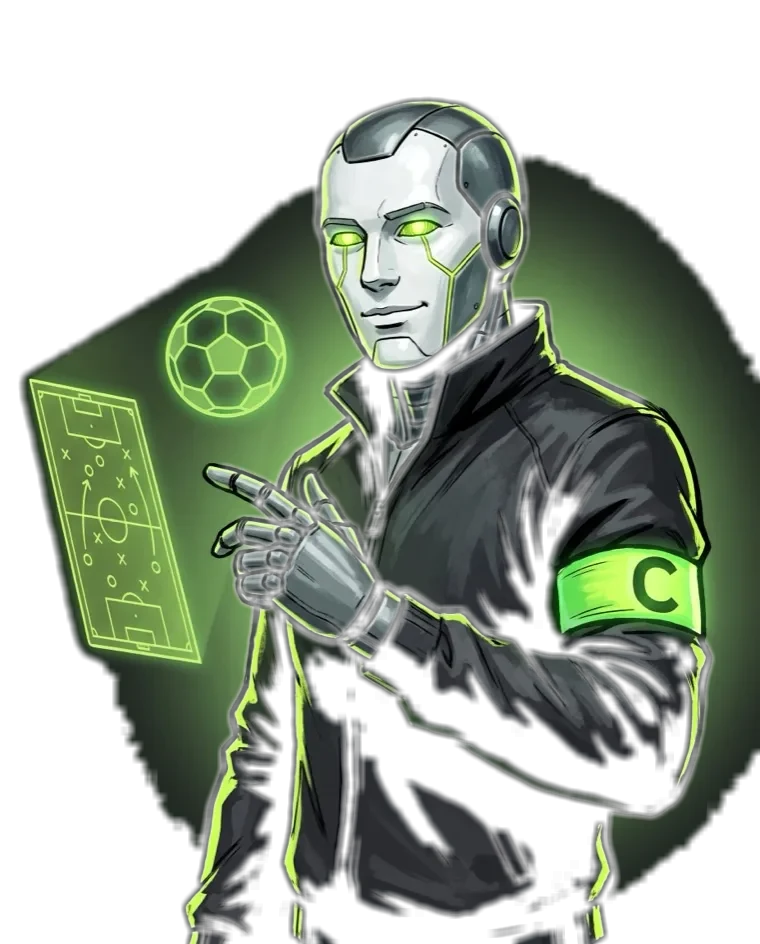
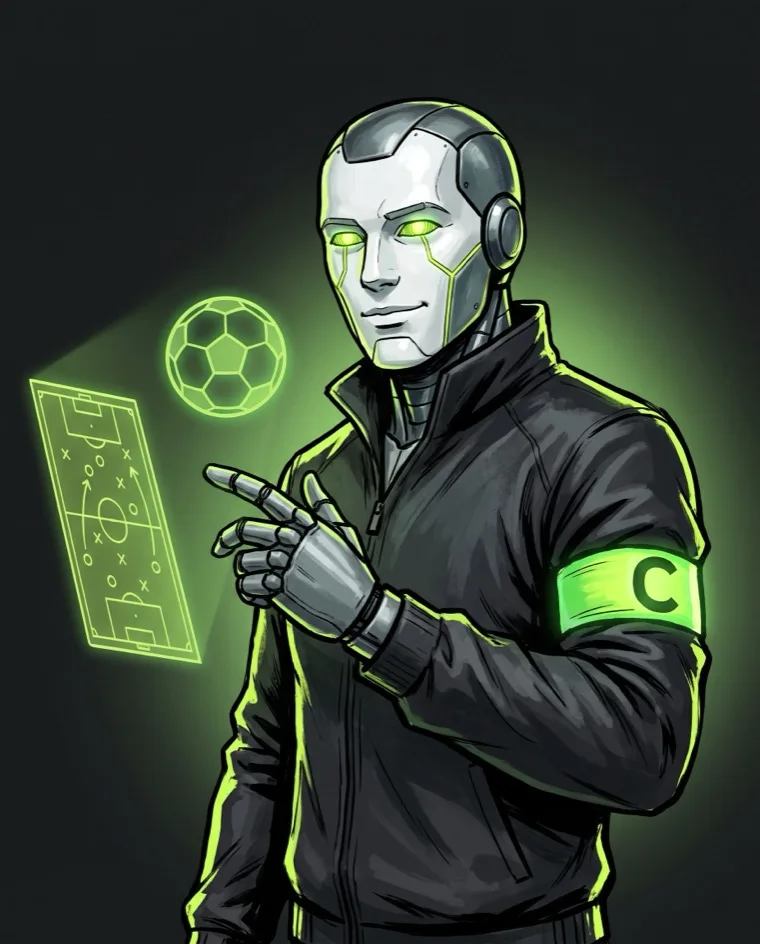
fix: sink the artwork's studio floor into the surface it sits on
Both illustrations are fully opaque and were painted on a flat near-black
floor, so on a tinted panel that floor reads as a rectangle behind the figure.
Keying it out of the assets was tried and reverted: the jacket is the same
black as the floor, colour cannot separate them, and a geometric silhouette
test left axis-aligned artefacts. The original assets are restored.

The surface is what changes instead. The art wrapper is filled with the
floor's own colour and now carries the mask itself rather than the image, so
the figure and the ground it was painted on dissolve together as one soft
field. The panel gradients meet that colour on the side the art sits on, which
is what makes the same artwork sit cleanly on the deck's flat black.

Also, the banner no longer stretches: the art column is 300px rather than 360,
which takes the desktop banner from about 470px tall to 397.

Claude-Session: https://claude.ai/code/session_01MmGnzvffgVCGJRVzZPhsMQ

diff --git a/index.html b/index.html
@@ -86,7 +86,7 @@ svg.i{width:1em;height:1em;flex:none;fill:none;stroke:currentColor;stroke-width:
 .site-nav button.on{color:var(--ink);border-bottom-color:var(--accent)}
 
 /* The play flow stays a single focused column; browse and scan screens open up. */
-body{--head-h:65px;--subnav-h:49px;--shell:620px}
+body{--head-h:65px;--subnav-h:49px;--shell:620px;--art-mask:radial-gradient(84% 82% at 52% 48%,#000 30%,rgba(0,0,0,.44) 64%,transparent 100%)}
 body[data-layout="wide"]{--shell:1120px}
 .sub-nav{position:sticky;top:var(--head-h);z-index:15;background:rgba(14,15,12,.92);backdrop-filter:blur(10px);border-bottom:1px solid var(--line)}
 .sub-nav .row{max-width:var(--shell);margin:0 auto;padding:0 20px;display:flex;align-items:center;gap:2px;min-height:48px;overflow-x:auto;scrollbar-width:none}
@@ -157,14 +157,18 @@ body[data-layout="wide"]{--shell:1120px}
 .hero-copy{position:relative;z-index:1;min-width:0}
 /* On phones the art sits out of flow in the corner: stacked above the copy it
    cost 190px before the headline and pushed the CTA under the fold. */
-.hero>.hero-art{position:absolute;top:10px;right:-14px;z-index:0;width:var(--art-w);aspect-ratio:760/944;pointer-events:none;-webkit-mask-image:linear-gradient(to bottom,#000 58%,transparent 94%);mask-image:linear-gradient(to bottom,#000 58%,transparent 94%)}
-.hero-photo{display:block;width:100%;height:100%;object-fit:contain;object-position:top center;filter:brightness(1.09) saturate(1.04)}
-.hero-copy>.row{padding-right:calc(var(--art-w) - 22px)}
-/* Both illustrations keep the glow they were painted with, and its outer
-   falloff is dark. This pool sits under the art so that falloff reads as one
-   shadow with the surface rather than as an edge around the figure. */
-.hero-art,.prize-banner .pb-art{isolation:isolate}
-.hero-art:before,.prize-banner .pb-art:before{content:"";position:absolute;inset:-14% -18%;z-index:-1;border-radius:50%;background:radial-gradient(closest-side,rgba(6,10,7,.55),rgba(6,10,7,.26) 58%,transparent 76%);pointer-events:none}
+.hero>.hero-art{position:absolute;top:8px;right:-10px;z-index:0;width:var(--art-w);aspect-ratio:1/1;pointer-events:none}
+.hero-photo{display:block;width:100%;height:100%;object-fit:cover;object-position:50% 38%;filter:brightness(1.09) saturate(1.04)}
+.hero-copy>.row{padding-right:calc(var(--art-w) - 34px)}
+/* Both illustrations were painted on a flat near-black studio floor and are
+   fully opaque, so on a tinted panel that floor shows as a rectangle behind
+   the figure. Keying it out is not possible - the jacket is the same black.
+   Instead the wrapper is filled with the floor's own colour and the wrapper,
+   not the image, carries the mask: the figure and the ground it was painted
+   on then dissolve together as one soft field, the way the art sits on the
+   flat black of the deck. */
+.hero-art,.prize-banner .pb-art{background:var(--art-floor);-webkit-mask-image:var(--art-mask);mask-image:var(--art-mask)}
+.hero-art{--art-floor:#1b2021}
 .hero:before{content:"";position:absolute;inset:-50% -20% auto auto;width:320px;height:320px;border-radius:50%;background:radial-gradient(closest-side,rgba(215,255,61,.18),transparent 70%);pointer-events:none}
 .hero:after{content:"";position:absolute;inset:auto auto -60% -20%;width:280px;height:280px;border-radius:50%;background:radial-gradient(closest-side,rgba(57,135,229,.16),transparent 70%);pointer-events:none}
 .hero>*{position:relative}
@@ -209,8 +213,7 @@ body[data-layout="wide"]{--shell:1120px}
 @media (min-width:720px){
   .hero{flex-direction:row;align-items:center;gap:28px;padding:30px 28px}
   .hero-copy{flex:1;min-width:0}
-  .hero>.hero-art{position:relative;top:auto;right:auto;order:0;width:min(400px,38%);aspect-ratio:1/1;align-self:flex-end;margin:0 -18px -30px 0;-webkit-mask-image:none;mask-image:none}
-  .hero-photo{object-fit:cover;object-position:50% 38%}
+  .hero>.hero-art{position:relative;top:auto;right:auto;order:0;width:min(400px,38%);align-self:flex-end;margin:0 -18px -30px 0}
   .hero-copy>.row{padding-right:0}
 }
 
@@ -529,7 +532,7 @@ body[data-layout="wide"]{--shell:1120px}
 .fan .grp{grid-template-columns:120px 1fr}
 .fan .bar{height:16px}
 .fan .fill,.fan .track{height:14px}
-.prize-banner{position:relative;overflow:hidden;margin-top:18px;padding:24px;border-radius:16px;background:linear-gradient(104deg,#222a1a 0%,#171a12 46%,#0f1710 100%);border:1px solid rgba(215,255,61,.28);box-shadow:var(--shadow);display:grid;gap:8px}
+.prize-banner{position:relative;overflow:hidden;margin-top:18px;padding:24px;border-radius:16px;background:linear-gradient(104deg,#222a1a 0%,#1a1e18 38%,#181d1f 76%,#181d1f 100%);border:1px solid rgba(215,255,61,.28);box-shadow:var(--shadow);display:grid;gap:8px}
 .prize-banner:before{content:"";position:absolute;inset:-45% -14% auto auto;width:440px;height:440px;border-radius:50%;background:radial-gradient(closest-side,rgba(215,255,61,.15),transparent 70%);pointer-events:none}
 .prize-banner .pb-copy{position:relative;z-index:1;min-width:0}
 .prize-banner h2{font-family:var(--font-display);font-size:36px;font-weight:800;line-height:.98;letter-spacing:-.01em;max-width:15ch}
@@ -538,10 +541,10 @@ body[data-layout="wide"]{--shell:1120px}
 .prize-banner .pb-status{font-weight:600;font-size:14px;color:var(--ink-2)}
 .prize-banner .pb-status.on{color:var(--accent)}
 .prize-banner .pb-terms{margin-top:14px;font-size:11px;color:var(--ink-3);line-height:1.5;max-width:86ch}
-.prize-banner .pb-art{position:relative;z-index:1;justify-self:center;width:min(230px,72%);aspect-ratio:760/944;margin:-6px 0 -30px}
+.prize-banner .pb-art{--art-floor:#1c2227;position:relative;z-index:1;justify-self:center;width:min(212px,66%);aspect-ratio:760/944;margin:-6px 0 -30px}
 .pb-photo{display:block;width:100%;height:100%;object-fit:contain;object-position:bottom center;filter:brightness(.94) saturate(1.06)}
 @media (min-width:720px){
-  .prize-banner{grid-template-columns:minmax(0,1fr) minmax(260px,360px);align-items:center;padding:26px 14px 26px 30px;gap:18px}
+  .prize-banner{grid-template-columns:minmax(0,1fr) minmax(230px,300px);align-items:center;padding:26px 14px 26px 30px;gap:18px}
   .prize-banner h2{font-size:42px}
   .prize-banner .pb-art{justify-self:end;width:100%;margin:0 0 -30px}
 }
@@ -1168,7 +1171,7 @@ function prizeBanner(p, opts = {}) {
       </div>
       <p class="pb-terms">Partner-funded, not a cash prize from Tribuna · new customers only · 18+ · T&amp;Cs apply · locking a prediction is always free.</p>
     </div>
-    <div class="pb-art"><img class="pb-photo" src="art/captain-king.webp?v=2" width="760" height="944" alt="" loading="lazy" decoding="async"></div>
+    <div class="pb-art"><img class="pb-photo" src="art/captain-king.webp?v=3" width="760" height="944" alt="" loading="lazy" decoding="async"></div>
   </section>`;
 }
 
@@ -1187,7 +1190,7 @@ function viewLanding() {
         ${p.iq > 0 ? `<button class="btn btn-ghost" data-action="nav" data-to="retention" data-label="You">My Match IQ · ${p.iq} · ${leagueFor(p.iq).name}</button>` : ''}
       </div>
     </div>
-    <div class="hero-art"><img class="hero-photo" src="art/captain-ai.webp?v=2" width="760" height="944" alt="CaptainAI, the model you play against" decoding="async"></div>
+    <div class="hero-art"><img class="hero-photo" src="art/captain-ai.webp?v=3" width="760" height="944" alt="CaptainAI, the model you play against" decoding="async"></div>
   </section>
 
   <div class="sec-head">

diff --git a/sw.js b/sw.js
@@ -1,8 +1,8 @@
 /* The prototype is a single page plus two illustrations, so the whole thing fits in a
    cache. Navigations go to the network first, so a deploy is picked up immediately, and
    fall back to the cached shell when there is none. */
-const CACHE = 'match-iq-v2';
-const SHELL = ['./', './index.html', './manifest.webmanifest', './art/captain-ai.webp?v=2', './art/captain-king.webp?v=2', './art/icon-192.png', './art/icon-512.png'];
+const CACHE = 'match-iq-v3';
+const SHELL = ['./', './index.html', './manifest.webmanifest', './art/captain-ai.webp?v=3', './art/captain-king.webp?v=3', './art/icon-192.png', './art/icon-512.png'];
 
 self.addEventListener('install', (e) => {
   e.waitUntil(caches.open(CACHE).then((c) => c.addAll(SHELL)).then(() => self.skipWaiting()));
